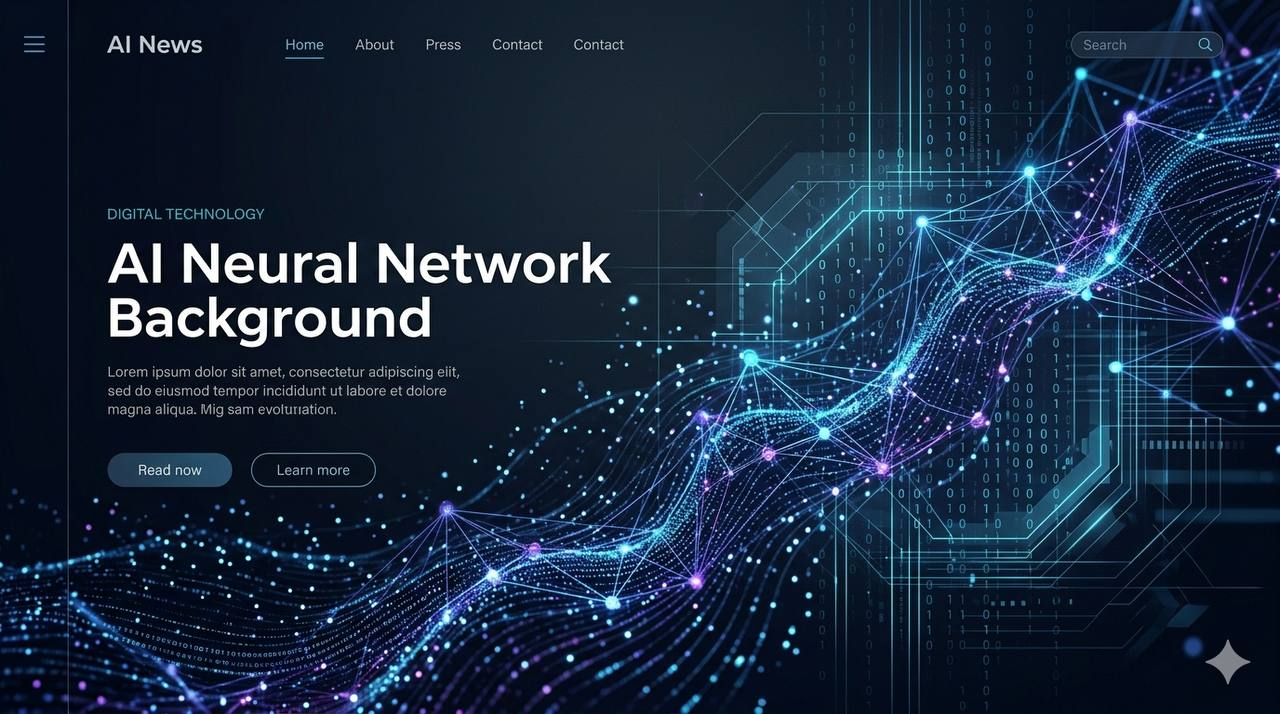
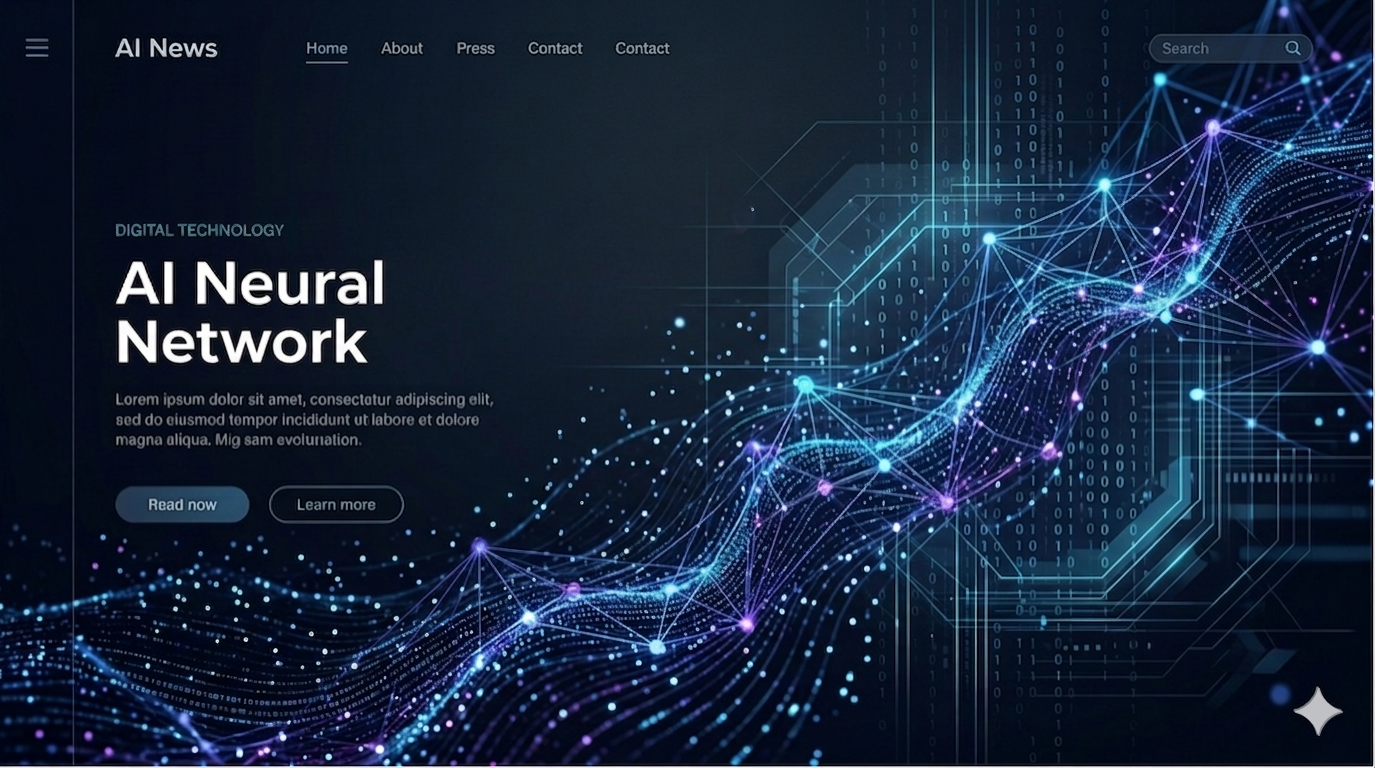
chore(news): use uploaded background image

diff --git a/news.html b/news.html
@@ -31,33 +31,9 @@
             left: 0;
             right: 0;
             bottom: 0;
-            /* Dark tech gradient - no text watermark */
-            background: 
-                radial-gradient(ellipse at 20% 80%, rgba(99, 102, 241, 0.15) 0%, transparent 50%),
-                radial-gradient(ellipse at 80% 20%, rgba(139, 92, 246, 0.1) 0%, transparent 50%),
-                radial-gradient(ellipse at 50% 50%, rgba(10, 10, 30, 0.8) 0%, transparent 70%),
-                linear-gradient(180deg, #0a0a1a 0%, #0f0f20 50%, #0a0a1a 100%);
+            background: url("assets/news-bg.jpg") center center / cover;
             z-index: -1;
-        }
-        
-        /* Binary code overlay effect */
-        body::after {
-            content: '01001101 01100001 01101000 01101001 01101110 01100101 01001110 01100101 01110101 01110010 01100001 01101100 01001110 01100101 01110100 01110111 01101111 01110010 01101011 01010000 01110010 01101111 01100011 01100101 01110011 01110011 01010111 01101111 01110010 01101100 01101000 01010000 01110010 01101111 01100111 01110010 01100001 01101101 01001111 01110101 01110100 01110000 01110101 01110100 01001101 01100001 01101001 01101110 01010011 01111001 01110011 01110100 01100101 01101101 01000111 01100001 01110100 01100101 01110111 01100001 01111001';
-            position: fixed;
-            top: 0; left: 0; right: 0; bottom: 0;
-            background: transparent;
-            z-index: -1;
-            opacity: 0.03;
-            font-family: 'Courier New', monospace;
-            font-size: 14px;
-            color: #6366f1;
-            overflow: hidden;
-            pointer-events: none;
-            /* Display as columns */
-            writing-mode: vertical-rl;
-            text-orientation: upright;
-            letter-spacing: 8px;
-            padding: 20px;
+            opacity: 0.6;
         }
 
         body {
